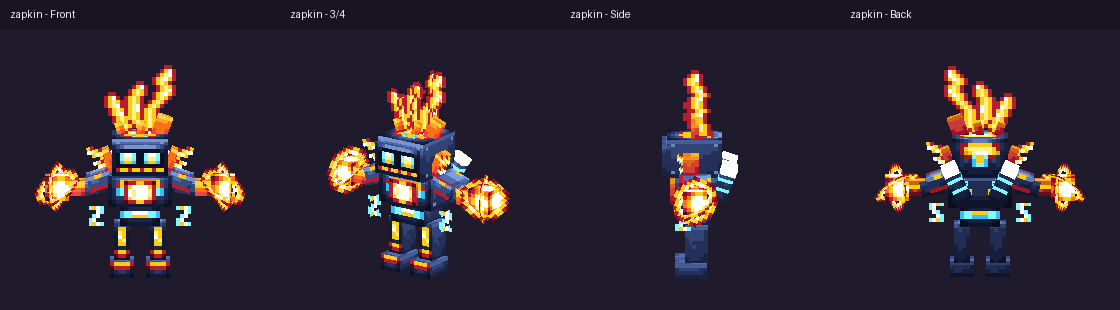
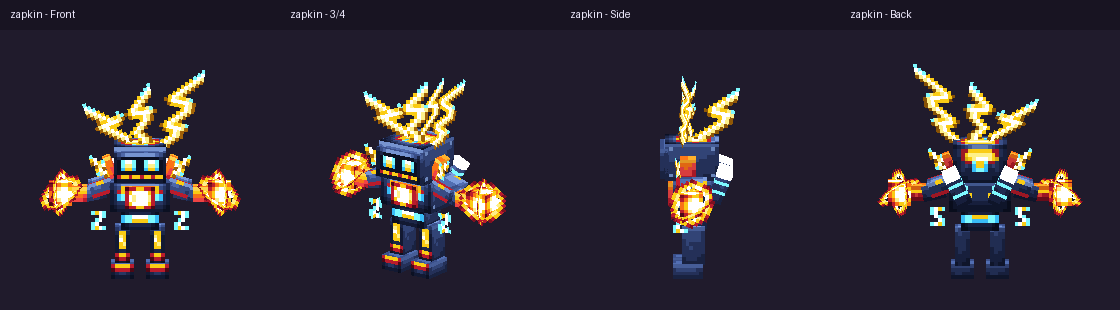
Art Pass Section 2.4: reshape Zapkin head spikes into sharp Z-kinked lightning bolts

diff --git a/tools/art/make_pets_art.py b/tools/art/make_pets_art.py
@@ -5407,108 +5407,111 @@ def make_zapkin():
         ],
     }, PAL)
 
-    # 3. Cheek fins [1, 3, 2] @ [44, 0] & [50, 0] + jagged cheek spark cutouts [3, 4, 0] @ [56, 0] & [62, 0]
+    # 3. Cheek fins [1, 3, 2] @ [44, 0] & [50, 0] + razor-sharp cheek lightning sparks [3, 4, 0] @ [56, 0] & [62, 0]
     for cu in (44, 50):
         shade_armor_box(cu, 0, 1, 3, 2, RED_RAMP, riveted=False, seed=3)
     cheek_spark_l = [
-        "....RY",
-        "..RYHW",
-        "RYHWY.",
-        ".RY...",
-        "..RYW.",
-        "RYHW..",
-        ".R....",
+        ".....K",
+        "....WY",
+        "..KYWb",
+        ".YWHb.",
+        "..bWY.",
+        ".YWHK.",
+        "KYb...",
         "......",
     ]
     cheek_spark_r = [row[::-1] for row in cheek_spark_l]
-    paint_cutout_z(56, 0, 3, 4, cheek_spark_l, glow_keys={"Y", "H", "W", "R"})
-    paint_cutout_z(62, 0, 3, 4, cheek_spark_r, glow_keys={"Y", "H", "W", "R"})
+    paint_cutout_z(56, 0, 3, 4, cheek_spark_l, glow_keys={"Y", "H", "W", "K"})
+    paint_cutout_z(62, 0, 3, 4, cheek_spark_r, glow_keys={"Y", "H", "W", "K"})
 
-    # 4. Head Lightning Crown (`spikes`):
-    #    3 roots: [1, 2, 1] @ [0, 14] & [4, 14], [2, 3, 1] @ [8, 14]
-    for ru, rw, rh in ((0, 1, 2), (4, 1, 2), (8, 2, 3)):
-        shade_armor_box(ru, 14, rw, rh, 1, RED_RAMP, riveted=False, seed=4)
-        rf = f2x(ru, 14, rw, rh, 1)["front"]
-        put(img, rf[0] + rf[2] // 2, rf[1], PAL["Y"])
-        put(glow, rf[0] + rf[2] // 2, rf[1], PAL["Y"])
-
-    #    Front/back 3-bolt jagged crown cutout [10, 9, 0] @ [16, 13] -> 20x18 px
-    #    On front (+X is viewer-right, -X is viewer-left; note front UV col 0 = -X or +X depending on model,
-    #    let's place the tall S-hooked bolt on cols 12..19 (+X) and verify in preview_geo.py!)
-    crown_front = [
-        "...............RR...",
-        "..............RYWR..",
-        ".............RYHWR..",
-        "............RYHWYR..",
-        "........RR..RYHYR...",
-        ".......RYWR..RYHYR..",
-        "......RYHYR..RYHWR..",
-        ".RR...RYHYR.RYHWYR..",
-        "RYWR.RYHYR..RYHYR...",
-        "RYHYRRYHYR.RYHYR....",
-        "RYHWRRYHWRRYHYR.....",
-        ".RYHYRYHWRYHYR......",
-        ".RYHWRYHYRYHYR......",
-        "..RYHYYHYRYHYR......",
-        "..RYHYRYHYYHYR......",
-        "...RYHYRYHYHYR......",
-        "...RYYR.RYYRYR......",
-        "....RR...RR.R.......",
+    # 4. Head Lightning Crown (`spikes`): 4 angled cutout Z-bolts with 1px needle tips & zero red borders
+    #    4a. Tall Right Hero Z-Bolt [7, 11, 0] @ [28, 11] -> 14x22 px
+    hero_bolt = [
+        ".............K",
+        "............KW",
+        "...........KWH",
+        "..........YWHb",
+        ".........YWHb.",
+        "........YWHb..",
+        ".......YWHb...",
+        "......YWHb....",
+        ".....YWHYYHK..",
+        "....bYWWWWWHb.",
+        ".....bYYYYWHb.",
+        ".........YWHb.",
+        "........YWHb..",
+        ".......YWHb...",
+        "......YWHb....",
+        ".....YWHYYHK..",
+        "....bYWWWWHb..",
+        ".....bYYWHb...",
+        ".......YWHb...",
+        "......YWHb....",
+        ".....YWHb.....",
+        "....bWHb......",
     ]
-    paint_cutout_z(16, 13, 10, 9, crown_front, glow_keys={"Y", "H", "W", "R", "E"})
+    paint_cutout_z(28, 11, 7, 11, hero_bolt, glow_keys={"Y", "H", "W", "K"})
 
-    #    Three crossed sagittal bolt blades:
-    #    Center [0, 7, 5] @ [36, 12] -> 10x14 px
-    paint_cutout_x(36, 12, 7, 5, [
-        "....RR....",
-        "...RYWR...",
-        "...RYHWR..",
-        "....RYHYR.",
-        "...RYHWR..",
-        "..RYHYR...",
-        "..RYHYR...",
-        "...RYHYR..",
-        "..RYHWR...",
-        "..RYHYR...",
-        "...RYHYR..",
-        "...RYHYR..",
-        "....RYYR..",
-        ".....RR...",
-    ], glow_keys={"Y", "H", "W", "R"})
-    #    Tall outer [0, 9, 4] @ [46, 11] -> 8x18 px
-    paint_cutout_x(46, 11, 9, 4, [
-        "...RR...",
-        "..RYWR..",
-        ".RYHWR..",
-        ".RYHYR..",
-        "..RYHYR.",
-        "..RYHWR.",
-        "...RYHYR",
-        "..RYHWR.",
-        "..RYHYR.",
-        "..RYHYR.",
-        "...RYHYR",
-        "..RYHWR.",
-        "..RYHYR.",
-        "..RYHYR.",
-        "...RYHYR",
-        "...RYHYR",
-        "....RYYR",
-        ".....RR.",
-    ], glow_keys={"Y", "H", "W", "R"})
-    #    Inner [0, 5, 3] @ [54, 14] -> 6x10 px
-    paint_cutout_x(54, 14, 5, 3, [
-        "..RR..",
-        ".RYWR.",
-        ".RYHYR",
-        "..RYHR",
-        ".RYHWR",
-        ".RYHYR",
-        "..RYHR",
-        "..RYHR",
-        "..RYYR",
-        "...RR.",
-    ], glow_keys={"Y", "H", "W", "R"})
+    #    4b. Center Sharp Z-Bolt [5, 8, 0] @ [44, 11] -> 10x16 px
+    center_bolt = [
+        "........K.",
+        ".......KW.",
+        "......KWH.",
+        ".....YWHb.",
+        "....YWHb..",
+        "...YWHb...",
+        "..YWHYYHK.",
+        ".bYWWWWWHb",
+        "..bYYYWHb.",
+        ".....YWHb.",
+        "....YWHb..",
+        "...YWHb...",
+        "..YWHb....",
+        "...YWHb...",
+        "....YWHb..",
+        "....bWHb..",
+    ]
+    paint_cutout_z(44, 11, 5, 8, center_bolt, glow_keys={"Y", "H", "W", "K"})
+
+    #    4c. Left Forked Z-Bolt [5, 7, 0] @ [56, 11] -> 10x14 px
+    left_bolt = [
+        "K.........",
+        "WK........",
+        "HWK.......",
+        "bHWY......",
+        ".bHWY.....",
+        "..bHWY..K.",
+        "..bYYWHYHK",
+        ".bHWWWWWHb",
+        "..bHWYYYb.",
+        "...bHWY...",
+        "....bHWY..",
+        ".....bHWY.",
+        "......bHWY",
+        ".......bWb",
+    ]
+    paint_cutout_z(56, 11, 5, 7, left_bolt, glow_keys={"Y", "H", "W", "K"})
+
+    #    4d. Swept-Back Sagittal Z-Crest [0, 8, 6] @ [68, 10] -> 12x16 px (col 0 = front -Z, col 11 = back +Z)
+    sagittal_bolt = [
+        "...........K",
+        "..........KW",
+        ".........KWH",
+        "........YWHb",
+        ".......YWHb.",
+        "......YWHb..",
+        ".....YWHYYHK",
+        "....bYWWWWWH",
+        ".....bYYYWHb",
+        "........YWHb",
+        ".......YWHb.",
+        "......YWHb..",
+        ".....YWHb...",
+        "....YWHb....",
+        "...YWHb.....",
+        "...bWHb.....",
+    ]
+    paint_cutout_x(68, 10, 8, 6, sagittal_bolt, glow_keys={"Y", "H", "W", "K"})
 
     # 5. Torso: Waist [5, 3, 4] @ [0, 26] -> 10x6 px
     shade_armor_box(0, 26, 5, 3, 4, NAVY_RAMP, riveted=False, seed=5)
